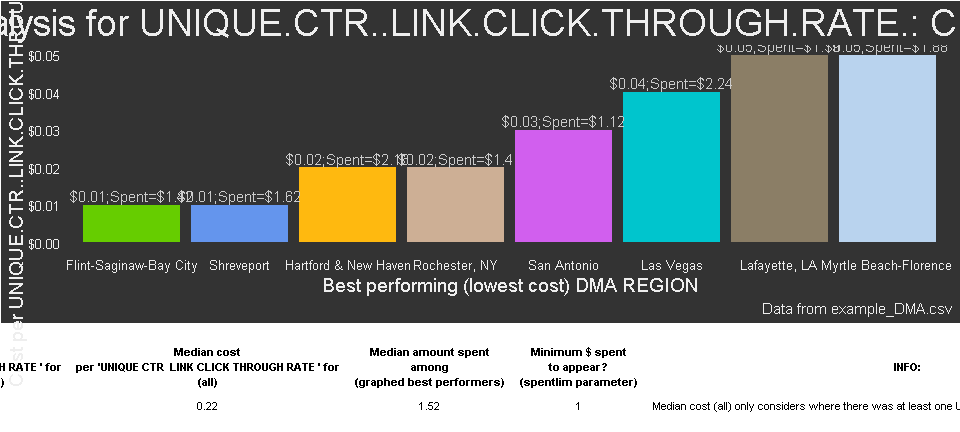
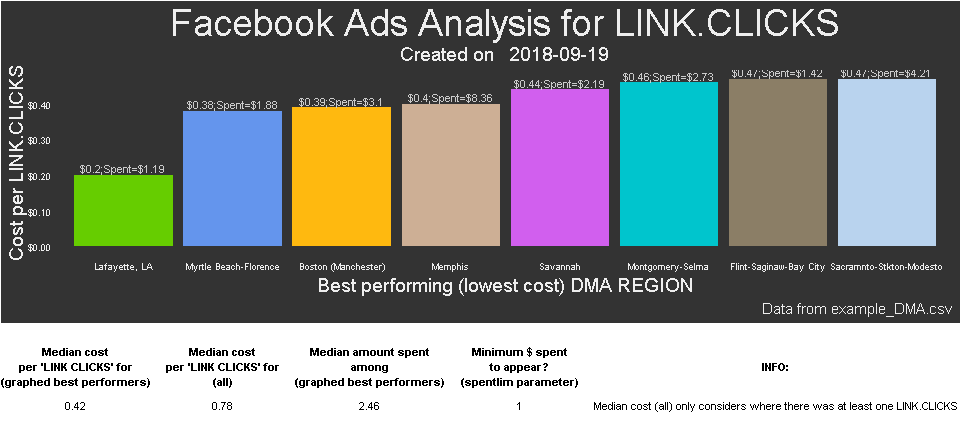
seeking font size for visualization that appears correct on github

diff --git a/README.md b/README.md
@@ -59,37 +59,37 @@ library("FBadstats")
 # Show only the best performing groups and include the graphical output, 
 # minimum spend to appear is a dollar ($1), analyzed result is Unique CTR (Link Click-Through Rate)
 FBadGstats(filerd = "example_DMA.csv", grphout = TRUE, tblout = "BEST", 
-           spentlim = 1, sumvar = 'UNIQUE.CTR')
+           spentlim = 1, sumvar = 'LINK.CLICKS')
 #> early1_2
 #> early3
 #> Joining, by = "DMA.REGION"
 #> [1] "-------------------------------------------------------------"
-#> [1] "BEST: UNIQUE CTR  LINK CLICK THROUGH RATE  in example_DMA.csv"
+#> [1] "BEST: LINK CLICKS in example_DMA.csv"
 #> # A tibble: 20 x 5
 #>    DMA.REGION                 rnkevent sumevent costevent sumspent
 #>    <chr>                         <int>    <dbl>     <dbl>    <dbl>
-#>  1 Flint-Saginaw-Bay City            1   117.        0.01     1.42
-#>  2 Shreveport                        1   208.        0.01     1.62
-#>  3 Hartford & New Haven              3   108.        0.02     2.16
-#>  4 Rochester, NY                     3    59.1       0.02     1.4 
-#>  5 San Antonio                       5    32.1       0.03     1.12
-#>  6 Las Vegas                         6    56.7       0.04     2.24
-#>  7 Lafayette, LA                     7    25.3       0.05     1.19
-#>  8 Myrtle Beach-Florence             7    37.2       0.05     1.88
-#>  9 Sacramnto-Stkton-Modesto          7    92.3       0.05     4.21
-#> 10 Orlando-Daytona Bch-Melbrn       10    63.1       0.08     4.78
-#> 11 Tallahassee-Thomasville          11    19.0       0.09     1.67
-#> 12 Boston (Manchester)              12    32.3       0.1      3.1 
-#> 13 Columbus, GA (Opelika, Al)       12    14.7       0.1      1.42
-#> 14 Minneapolis-St. Paul             12    11.8       0.1      1.18
-#> 15 Savannah                         15    19.2       0.11     2.19
-#> 16 Seattle-Tacoma                   15    21.8       0.11     2.38
-#> 17 Nashville                        17    27.0       0.14     3.89
-#> 18 Portland, OR                     18     8.33      0.15     1.25
-#> 19 Miami-Ft. Lauderdale             19    43.5       0.16     7   
-#> 20 Greenville-N.Bern-Washngtn       20    10.2       0.17     1.73
+#>  1 Lafayette, LA                     1        6      0.2      1.19
+#>  2 Myrtle Beach-Florence             2        5      0.38     1.88
+#>  3 Boston (Manchester)               3        8      0.39     3.1 
+#>  4 Memphis                           4       21      0.4      8.36
+#>  5 Savannah                          5        5      0.44     2.19
+#>  6 Montgomery-Selma                  6        6      0.46     2.73
+#>  7 Flint-Saginaw-Bay City            7        3      0.47     1.42
+#>  8 Sacramnto-Stkton-Modesto          7        9      0.47     4.21
+#>  9 Cleveland-Akron (Canton)          9       10      0.54     5.43
+#> 10 Shreveport                        9        3      0.54     1.62
+#> 11 Atlanta                          11       45      0.56    25.1 
+#> 12 Las Vegas                        11        4      0.56     2.24
+#> 13 San Antonio                      11        2      0.56     1.12
+#> 14 St. Louis                        11        8      0.56     4.49
+#> 15 Tallahassee-Thomasville          11        3      0.56     1.67
+#> 16 Minneapolis-St. Paul             16        2      0.59     1.18
+#> 17 Baltimore                        17       12      0.6      7.26
+#> 18 Indianapolis                     18        6      0.61     3.68
+#> 19 Portland, OR                     19        2      0.62     1.25
+#> 20 Greensboro-H.Point-W.Salem       20       10      0.63     6.29
 #> [1] "Number of groups in all of data: 197"
-#> [1] "Number of DMA REGION groups with at least one UNIQUE CTR  LINK CLICK THROUGH RATE  and minimum spend of $1 = 62"
+#> [1] "Number of DMA REGION groups with at least one LINK CLICKS and minimum spend of $1 = 63"
 #> [1] "Total amount spent: $420.75"
 #> markerbottom_1
 #> Joining, by = "AD.SET.NAME"
@@ -98,32 +98,32 @@ FBadGstats(filerd = "example_DMA.csv", grphout = TRUE, tblout = "BEST",
 <img src="README-example1-1.png" style="display: block; margin: auto;" />
 
     #> [1] "-------------------------------------------------------------"
-    #> [1] "BEST: UNIQUE CTR  LINK CLICK THROUGH RATE  in example_DMA.csv"
+    #> [1] "BEST: LINK CLICKS in example_DMA.csv"
     #> # A tibble: 20 x 5
     #>    AD.SET.NAME                        rnkevent sumevent costevent sumspent
     #>    <chr>                                 <int>    <dbl>     <dbl>    <dbl>
-    #>  1 Pwr2_Retarg_sub75vid_EnergyCarous~        1   115.       0.02      2.55
-    #>  2 Pwr2_sub25lngInst_EnergyCarousel          1   180.       0.02      3.92
-    #>  3 Pwr2_sub25lngvidspec_vidEnergyCar~        1   295        0.02      5.79
-    #>  4 ProBook_Pg_TeachLk                        4   100        0.03      3.02
-    #>  5 Pwr2_sub25lngvidInst_vidEnergyCar~        5    25        0.06      1.48
-    #>  6 Pwr2_TeachspecInst_DarrenDaily            6   588.       0.08     49.1 
-    #>  7 Pwr2_sub95vidInst_EnergyCarousel          7    36.7      0.09      3.42
-    #>  8 Pwr2_Teachspec_vidEnergyCarousel          7    50        0.09      4.57
-    #>  9 Pwr2_TeachspecInst_EnergyCarousel         9   439.       0.12     54.4 
-    #> 10 Event: Ryan's Race for 1st Place_~       10    16.7      0.13      2.19
-    #> 11 ProBook_Pg_TeachSpec                     11    23.1      0.14      3.32
-    #> 12 Pwr2_TeachSpecDT_vidEnergyCarousel       12    44.2      0.18      7.81
-    #> 13 ProBook_Pg_95vidlk                       13   274.       0.24     65.3 
-    #> 14 Event: Ryan's Race for 1st Place_~       14    14.3      0.25      3.57
-    #> 15 Pwr2_sub75vid_DarrenDaily                15    18.5      0.26      4.84
-    #> 16 Pwr2_sub75vid_vidEnergyCarousel          16    33.1      0.290     9.53
-    #> 17 Pwr2_sub25lngvid40+_vidEnergyCaro~       17    39.5      0.38     15.0 
-    #> 18 Vid_DHardy1_Iyanla                       18    89.1      0.39     35.0 
-    #> 19 Pwr2_TeachspecInstO_DarrenDaily          19     3.03     1.58      4.78
-    #> 20 Pwr2_MercerInst_EnergyCarousel           20     1.98     6.12     12.2 
+    #>  1 Pwr2_TeachspecInst_EnergyCarousel         1      199      0.27    54.4 
+    #>  2 Pwr2_Retarg_sub75vid_EnergyCarous~        2        8      0.32     2.55
+    #>  3 Pwr2_TeachspecInst_DarrenDaily            3      119      0.41    49.1 
+    #>  4 Pwr2_sub25lngvidspec_vidEnergyCar~        4        9      0.64     5.79
+    #>  5 Pwr2_sub25lngInst_EnergyCarousel          5        6      0.65     3.92
+    #>  6 Pwr2_MercerInst_EnergyCarousel            6       14      0.87    12.2 
+    #>  7 ProBook_Pg_95vidlk                        7       67      0.98    65.3 
+    #>  8 Pwr2_RTP4562_vidEnergyCarousel            8       12      1.07    12.9 
+    #>  9 ProBook_Pg_TeachSpec                      9        3      1.11     3.32
+    #> 10 Pwr2_sub25lngvid40+_vidEnergyCaro~       10       11      1.36    15.0 
+    #> 11 Pwr2_sub25lngvidInst_vidEnergyCar~       11        1      1.48     1.48
+    #> 12 Pwr2_sub75vid_DarrenDaily                12        3      1.61     4.84
+    #> 13 Pwr2_TeachSpecRTP_vidEnergyCarous~       13        5      1.65     8.25
+    #> 14 Pwr2_sub95vidInst_EnergyCarousel         14        2      1.71     3.42
+    #> 15 Vid_DHardy1_Iyanla                       15       19      1.84    35.0 
+    #> 16 Event: Ryan's Race for 1st Place_~       16        1      2.19     2.19
+    #> 17 Pwr2_Teachspec_vidEnergyCarousel         17        2      2.29     4.57
+    #> 18 Pwr2_TeachSpecDT_vidEnergyCarousel       18        3      2.6      7.81
+    #> 19 Pwr2_Teach95vidRTP_vidEnergyCarou~       19        1      2.92     2.92
+    #> 20 ProBook_Pg_TeachLk                       20        1      3.02     3.02
     #> [1] "Number of groups in all of data: 36"
-    #> [1] "Number of AD SET NAME groups with at least one UNIQUE CTR  LINK CLICK THROUGH RATE  and minimum spend of $1 = 23"
+    #> [1] "Number of AD SET NAME groups with at least one LINK CLICKS and minimum spend of $1 = 23"
     #> [1] "Total amount spent: $420.75"
     #> markerbottom_1
 
